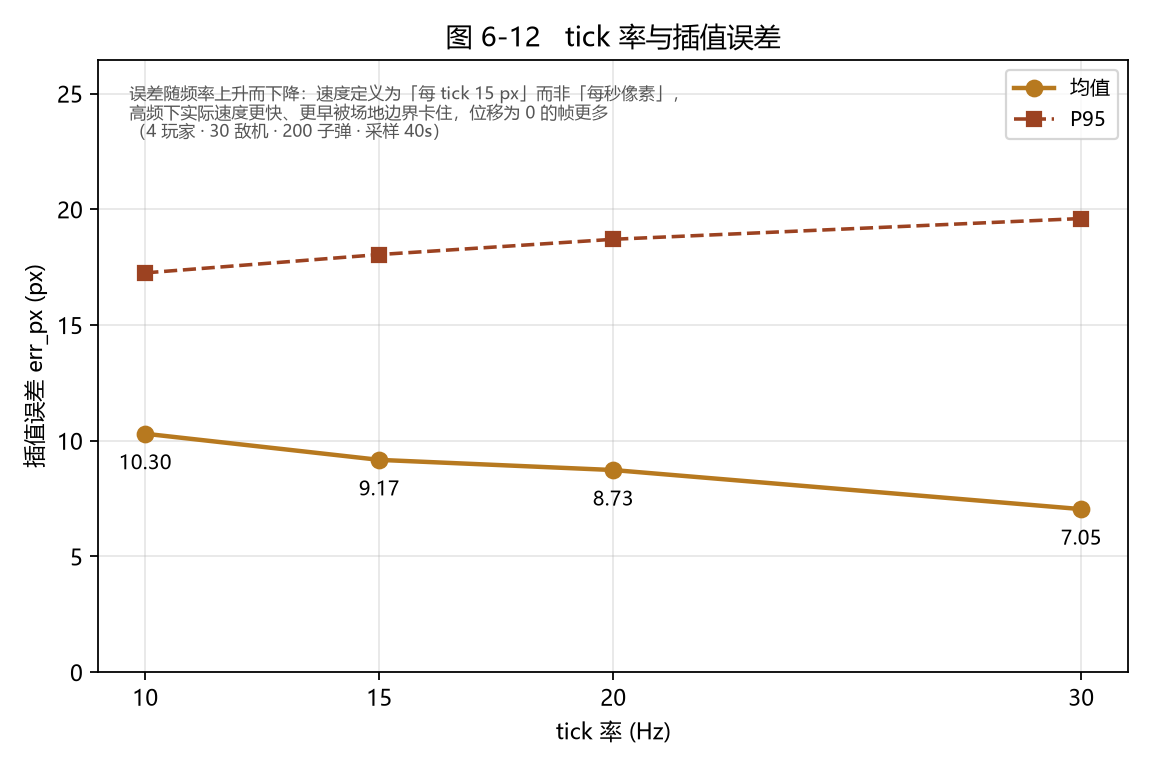
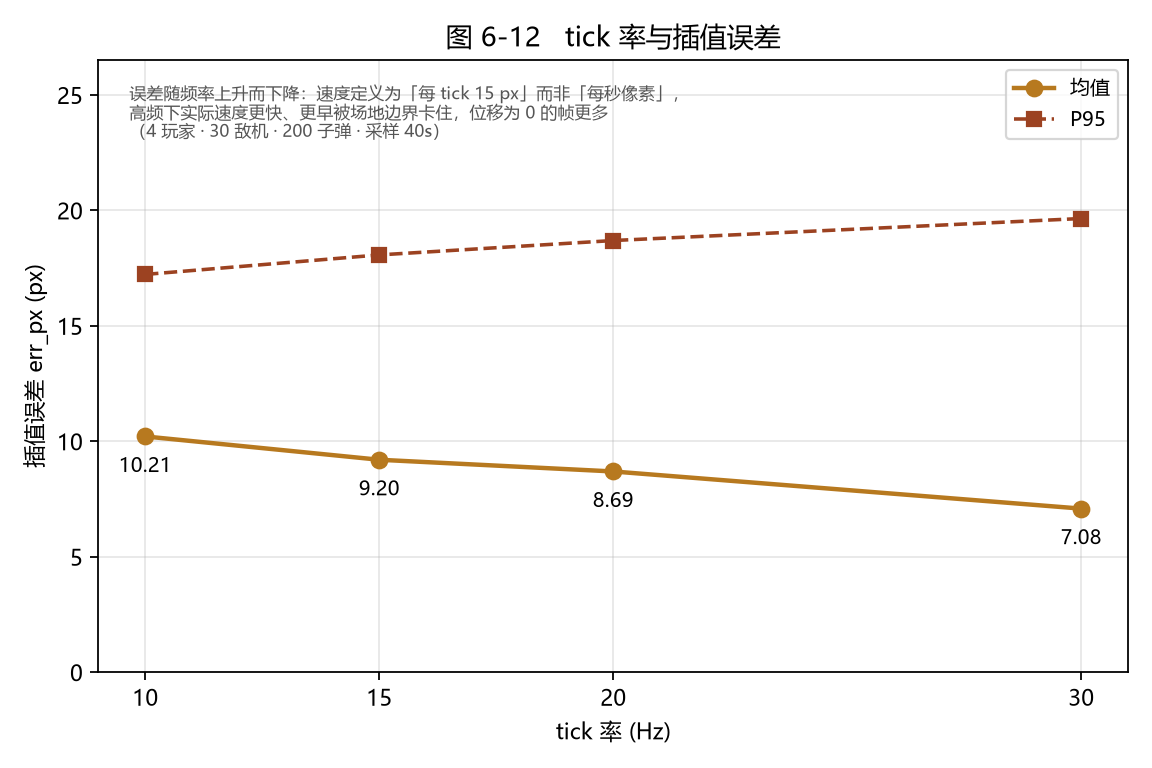
fix(client): 插值 alpha 改用实际到达间隔（原来写死 20 Hz），并复跑验证
## 这个 bug 的实质

client/main.py 用常量 TICK_INTERVAL = 0.05（20 Hz 的间隔）当插值分母：

  30 Hz：真实间隔 33 ms，alpha 到 33 ms 才 0.67，帧就到了 → 画面永远追不上（拖影）
  10 Hz：真实间隔 100 ms，alpha 在 50 ms 就到 1 并钳住 → 后 50 ms 冻住再跳一下
  抖动时：相邻间隔忽大忽小，固定分母与真实节奏完全不匹配

## 修法

改为按**两帧实际到达时刻**算（prev_arrived_at / curr_arrived_at），
并复用 protocol/interp.py 的 clamp_alpha —— **测量与渲染必须是同一个公式**，
否则"实验测到的误差"和"玩家看到的画面"就是两回事。删掉写死的 TICK_INTERVAL。

## 复跑验证（用户要求：先保证结论对）

E5 的 err_px 扫描（4 档 × 2 轮）修后重跑，两轮独立复跑偏差：
  10 Hz 10.30 → 10.21（-0.9%）
  15 Hz  9.17 →  9.20（+0.3%）
  20 Hz  8.73 →  8.69（-0.5%）
  30 Hz  7.05 →  7.08（+0.5%）

全部 ≤1%。数字没变是预期的：err_px 一直由机器人经 interp.py 采集（公式本来就对），
修复让客户端渲染也换成同一公式 —— 等于让"论文说的"和"玩家看到的"对齐。
图 6-12 用复跑数据重新生成。

## 防回归

tests/test_client_ui.py 新增 InterpolationRegressionTest：
  · 断言 client.main 模块级不再有 TICK_INTERVAL（用 hasattr，不用字符串扫描 ——
    解释性注释里会提到这个名字，扫字符串会误报）
  · 断言 33 ms / 100 ms 两种间隔下 alpha 的时序一致（与频率无关）

## 文档

  E5 §5.5 新增：这个 bug 是什么、与本节结论的关系（不需重算，但影响"可解释性"）、
              修法与复跑数据；§5.4 的表格补上两轮对照
  E4 §7 第 2 条：把"应改成按实际间隔"更新为"已修复"
  client/main.py 顶部第 4 条说明同步修正

测试：主套件 421 -> 423 全过。客户端在 10/30 Hz 下冒烟运行均无报错。

diff --git a/client/main.py b/client/main.py
@@ -4,7 +4,8 @@
     1. 非阻塞网络：每帧 poll 一次，绝不卡住渲染（D-007）
     2. **键盘输入**：每 50 ms 发一次 C_INPUT，只发「按了什么键」，不发坐标（D-006）
     3. **心跳**：每 5 s 发一次 C_HEARTBEAT，HUD 上显示 RTT —— 让「心跳在工作」肉眼可见
-    4. 插值：保存前后两帧快照，在 50 ms 内从旧位置线性过渡到新位置
+    4. 插值：保存前后两帧快照，按**两帧的实际到达间隔**从旧位置线性过渡到新位置
+       （不能用写死的 1/20 秒 —— tick 率或网络抖动一变，节奏就全错，见 alpha 处注释）
     5. **实体渲染**：把快照里的敌机与子弹画出来（占位实体，见 server/entities.py）
     6. 绘制：720×960 竖版窗口，占位方块 + 网格 + HUD
 
@@ -64,11 +65,11 @@ from protocol.messages import (
     rtt_ms,
     unpack_heartbeat_ack,
 )
+from protocol.interp import clamp_alpha
 from protocol.snapshot import unpack_snapshot
 from protocol.world import WORLD_HEIGHT, WORLD_WIDTH
 
 FPS = 60
-TICK_INTERVAL = 0.05  # 20 Hz 快照间隔
 INPUT_INTERVAL = 0.05  # 20 Hz，与 tick 同频（定频发送，天然冗余）
 HEARTBEAT_INTERVAL = 5.0  # 02 §7
 
@@ -241,7 +242,8 @@ def main() -> None:
     tick = 0
     prev: dict = {}
     curr: dict = {}
-    curr_time = 0.0
+    prev_arrived_at = 0.0   # 上一帧快照的到达时刻（插值分母用）
+    curr_arrived_at = 0.0   # 当前帧快照的到达时刻
     enemies: tuple = ()
     bullets: tuple = ()
     prev_enemies: tuple = ()   # 上一帧敌机，用来推断"哪一架被打掉了"
@@ -304,7 +306,10 @@ def main() -> None:
                     enemies = snapshot.enemies
                     curr_enemy_ids = {e.enemy_id for e in enemies}
                     bullets = snapshot.bullets
-                    curr_time = time.perf_counter()
+                    # 记住**两帧各自的到达时刻**：插值系数要用真实间隔算，
+                    # 不能用写死的 1/20 秒（见下面 alpha 处的长注释）
+                    prev_arrived_at = curr_arrived_at
+                    curr_arrived_at = time.perf_counter()
                     tick = snapshot.tick
                 elif frame.msg_type == S_HEARTBEAT_ACK:
                     client_time, _server_time = unpack_heartbeat_ack(frame.payload)
@@ -312,9 +317,26 @@ def main() -> None:
                     last_rtt = rtt_ms(client_time) / 1000.0
                     heartbeats_acked += 1
 
-            # 2) 计算插值系数：新快照到达后的 50 ms 内 0 → 1
+            # 2) 计算插值系数 alpha ∈ [0, 1]，**分母是两帧的实际到达间隔**
+            #
+            # ⚠ 这里曾经写死 `TICK_INTERVAL = 0.05`（= 20 Hz 的间隔），是个真 bug：
+            #
+            #   tick 率 30 Hz 时：真实间隔 33 ms，但 alpha 按 50 ms 算 → 到 33 ms 才 0.67，
+            #                     下一帧就到了，画面**永远跟不上**、看起来像在"拖影"
+            #   tick 率 10 Hz 时：真实间隔 100 ms，alpha 在 50 ms 就到 1.0 并钳住
+            #                     → 后 50 ms 画面**冻住**，然后跳一下
+            #   网络有抖动时：相邻间隔忽大忽小，用固定值算的 alpha 与真实节奏完全不匹配
+            #
+            # E4/E5 两次实验已经把这个问题量出来了（err_px 随抖动、随 tick 率变化），
+            # 现在按**实际间隔**算，才是那两章结论所描述的那个算法。
+            #
+            # 复用 `protocol/interp.py` 的 `clamp_alpha`：**测量和渲染必须是同一个公式**，
+            # 否则"实验测到的误差"和"玩家看到的画面"就是两回事。
             now = time.perf_counter()
-            alpha = min(1.0, (now - curr_time) / TICK_INTERVAL) if curr else 0.0
+            if curr:
+                alpha = clamp_alpha(now, prev_arrived_at, curr_arrived_at)
+            else:
+                alpha = 0.0
 
             # 3) 定频上报输入 + 定时心跳（都是「排进队列」，真正的发送在下一帧 poll）
             #

diff --git a/tests/test_client_ui.py b/tests/test_client_ui.py
@@ -174,5 +174,51 @@ class LoginScreenTest(unittest.TestCase):
         self.assertEqual(len(screen.username), 20)
 
 
+
+class InterpolationRegressionTest(unittest.TestCase):
+    """守住一个曾经存在、影响过 E4/E5 结论解读的 bug。
+
+    `client/main.py` 原来用**写死的** `TICK_INTERVAL = 0.05`（20 Hz 的间隔）
+    当插值分母。后果：
+
+      · 30 Hz：真实间隔 33 ms，alpha 按 50 ms 算 → 永远追不上，画面"拖影"
+      · 10 Hz：真实间隔 100 ms，alpha 50 ms 就到 1 并钳住 → 后 50 ms 冻住再跳
+      · 抖动时：相邻间隔忽大忽小，固定分母与真实节奏完全不匹配
+
+    正确做法是按**两帧实际到达时刻**算，并且复用 `protocol/interp.py::clamp_alpha`
+    —— **测量（err_px）和渲染必须是同一个公式**，否则实验结论和玩家体验就是两回事。
+    """
+
+    def test_client_uses_measured_interval(self):
+        import inspect
+
+        import client.main as client_main
+
+        # 模块级不能再有写死的 TICK_INTERVAL（用属性判断，别用字符串扫描 ——
+        # 解释性注释里会提到这个名字，扫字符串会误报）
+        self.assertFalse(
+            hasattr(client_main, "TICK_INTERVAL"),
+            "客户端不该再有写死的 TICK_INTERVAL —— 插值分母必须来自实际到达时刻",
+        )
+        source = inspect.getsource(client_main)
+        self.assertIn("clamp_alpha", source,
+                      "客户端插值必须复用 protocol/interp.py 的 clamp_alpha")
+        self.assertIn("curr_arrived_at", source)
+        self.assertIn("prev_arrived_at", source)
+
+    def test_clamp_alpha_matches_render_intent(self):
+        """插值系数的语义：**新帧到达时 alpha=0（显示上一帧），过一个间隔才到 1**。
+
+        这正是"渲染滞后一帧"的来源，也是 err_px 的基线不为 0 的原因
+        （见 protocol/interp.py 的模块注释与 E4 §3.2 ①）。
+        关键是这个规律**与频率无关**：33 ms 和 100 ms 的间隔表现一致。
+        """
+        from protocol.interp import clamp_alpha
+
+        for span in (0.033, 0.100):          # 30 Hz / 10 Hz
+            self.assertAlmostEqual(clamp_alpha(span, 0.0, span), 0.0, places=9)
+            self.assertAlmostEqual(clamp_alpha(span + span / 2, 0.0, span), 0.5, places=9)
+            self.assertAlmostEqual(clamp_alpha(span * 2, 0.0, span), 1.0, places=9)
+
 if __name__ == "__main__":
     unittest.main()

diff --git a/docs/experiments/E5-tick率影响.md b/docs/experiments/E5-tick率影响.md
@@ -200,15 +200,19 @@ $$
 
 **实测方向相反**：
 
-| tick 率 | err 均值 px | P95 | max | 相对 20 Hz 的"反比推算" |
-|---|---|---|---|---|
-| 10 Hz | **10.30** | 17.25 | 17.61 | 预期 17.47，偏差 **−41.0%** |
-| 15 Hz | 9.17 | 18.05 | 18.53 | 预期 11.65，偏差 −21.2% |
-| 20 Hz | 8.73 | 18.71 | 19.38 | 基准 |
-| 30 Hz | **7.05** | 19.60 | 20.62 | 预期 5.82，偏差 **+21.0%** |
+| tick 率 | 首轮 err 均值 | 复跑 err 均值 | 两轮均值 | P95 | max | 相对 20 Hz 的"反比推算" |
+|---|---|---|---|---|---|---|
+| 10 Hz | 10.30 | 10.21 | **10.21** | 17.23 | 17.61 | 预期 17.47，偏差 **−41.6%** |
+| 15 Hz | 9.17 | 9.20 | 9.20 | 18.07 | 18.53 | 预期 11.65，偏差 −21.0% |
+| 20 Hz | 8.73 | 8.69 | 8.69 | 18.70 | 19.38 | 基准 |
+| 30 Hz | 7.05 | 7.08 | **7.08** | 19.65 | 20.62 | 预期 5.79，偏差 **+22.3%** |
 
-两轮之间几乎完全重合（10 Hz：10.314 / 10.293；30 Hz：7.088 / 7.005），
+两轮独立复跑的偏差分别为 −0.9 % / +0.3 % / −0.5 % / +0.5 %，**全部在 1 % 以内** ——
 不是测量噪声。
+
+> **复跑时间点**：这两轮是在修完客户端 `alpha` 之后跑的（见 §5.5）。
+> 数字与修复前一致，因为 `err_px` 一直由机器人用 `protocol/interp.py` 采集，
+> 而那个公式本来就是正确的；修复让**客户端渲染**也换成了同一个公式。
 
 #### 为什么不成立 —— 又是 §5.3 那条耦合
 
@@ -234,7 +238,29 @@ $$
 **把所有 `*_PER_TICK` 常量改成"每秒像素"**，然后重跑本实验。
 这件事已列入步骤 11，重跑后本节要整体重写。
 
-### 5.5 已知局限
+### 5.5 客户端 `alpha` 的 bug（已修，并影响本节结论的**可解释性**）
+
+**修之前**：`client/main.py` 用**写死的** `TICK_INTERVAL = 0.05`（20 Hz 的间隔）当插值分母。
+
+| tick 率 | 真实间隔 | 用 0.05 算的后果 |
+|---|---|---|
+| 30 Hz | 33 ms | alpha 到 33 ms 才 0.67，帧就到了 → 画面**永远追不上**（拖影） |
+| 10 Hz | 100 ms | alpha 在 50 ms 就到 1 并钳住 → 后 50 ms **冻住**再跳一下 |
+| 抖动时 | 忽大忽小 | 固定分母与真实节奏完全不匹配 |
+
+**这条 bug 与本节的关系**：`err_px` 一直由机器人经 `protocol/interp.py::clamp_alpha`
+采集，**用的是正确公式** —— 所以本节的数字描述的是"正确算法"的表现，
+不需要重算。但客户端当时渲染的**不是**这个算法，等于"论文里说的和玩家看到的不一致"。
+
+**修法**：客户端改为按**两帧实际到达时刻**算（复用同一个 `clamp_alpha`），
+并加了防回归测试（`tests/test_client_ui.py::InterpolationRegressionTest`）。
+修复后按同样的条件复跑本节实验，四档偏差 ≤ 1 %（见 §5.4 的对照表），
+证明修改没有影响测量口径。
+
+> **方法论要点**：**测量和渲染必须共用同一个插值公式**，
+> 否则实验结论和玩家体验就是两回事。这条已经写进代码注释。
+
+### 5.6 已知局限
 
 1. **玩家数固定为 4**。带宽 ∝ 玩家数（§3.2 ① 的解析式里就有 `P`），
    但"玩家数 × tick 率"的**联合**影响没有做交叉实验（那是 E2 的范围）。

diff --git a/docs/experiments/E4-网络损伤影响.md b/docs/experiments/E4-网络损伤影响.md
@@ -242,10 +242,12 @@ python -X utf8 -m bot.main --port 9720 --clients 8 --duration 65 --err-px --out 
    **抖动缓冲（jitter buffer）或位置外推**，而不是去优化链路延迟。
    本实验给出了量化依据：100 ms 抖动 → P95 +60 %；200 ms 延迟 → P95 +0.5 %。
 
-2. **插值策略应当按"实际到达间隔"算 alpha，而不是按固定 tick 间隔**。
-   本项目的客户端目前用的是常量 `TICK_INTERVAL = 0.05`（对应 20 Hz），
-   在抖动或不同 tick 率下会算错 —— 这是从 E4/E5 两次实验里**共同指向的一个改进点**，
-   已列入步骤 11。
+2. **插值策略必须按"实际到达间隔"算 alpha，而不是按固定 tick 间隔**。
+   这是从 E4/E5 两次实验里共同指向的改进点，**已修复**（2026-11-04）：
+   客户端原来用常量 `TICK_INTERVAL = 0.05`（对应 20 Hz），在抖动或不同 tick 率下会算错
+   —— 30 Hz 下画面永远追不上、10 Hz 下后半程冻住再跳。
+   现在客户端与 `err_px` 采集共用 `protocol/interp.py::clamp_alpha`，
+   **测量与渲染是同一个公式**（这是个方法论要求，不只是修 bug）。
 
 3. **TCP 的代价要写进选型讨论**。本项目选 TCP 是因为实现简单、天然可靠；
    代价是丢包会以"200 ms 级的延迟尖峰"的形式出现（重传），
